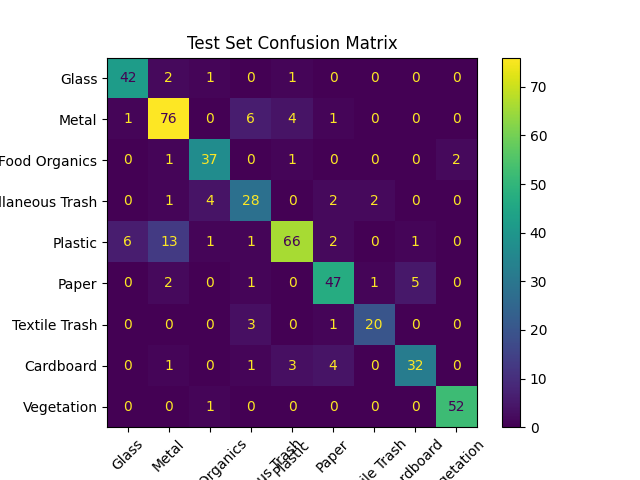
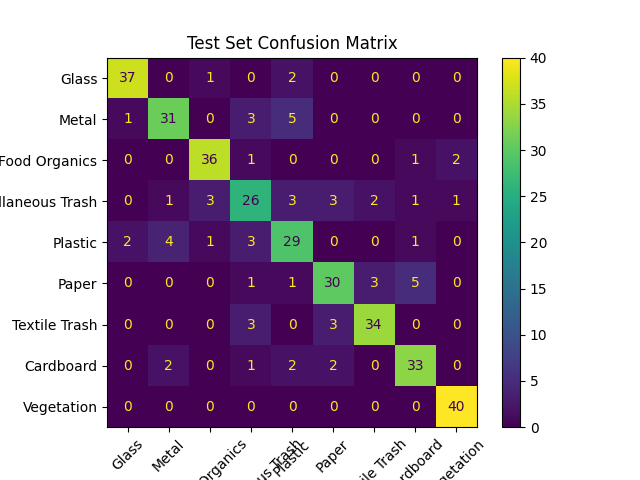
===2025/05/18=== mac

diff --git a/noRetrainOnTorch.py b/noRetrainOnTorch.py
@@ -2,13 +2,13 @@
 # 
 # | 模型               | Test Accuracy                      |
 # | 全凍結-50epoch------------------------------------------|
-# | MobileNetV2       |                  |
-# | EfficientNetB0    |                  |
-# | EfficientNetB1    |                  |
-# | EfficientNetB7    |                  |
-# | EfficientNetV2S   |                  |
-# | EfficientNetV2M   |                  |
-# | ConvNeXtTiny      |                  |
+# | MobileNetV2       | 0.8250                             |
+# | EfficientNetB0    | 0.8417                             |
+# | EfficientNetB1    | 0.8222                             |
+# | EfficientNetB7    | 0.8083                             |
+# | EfficientNetV2S   | 0.7944                             |
+# | EfficientNetV2M   | 0.7528                             |
+# | ConvNeXtTiny      | 0.8194                             |
 # | 全訓練-50epoch------------------------------------------|
 # | MobileNetV2       | 0.8500                             |
 # | EfficientNetB0    | 0.9000                             |
@@ -18,13 +18,13 @@
 # | EfficientNetV2M   | 0.8389                             |
 # | ConvNeXtTiny      | 0.7806                             |
 # | 全訓練-200epoch-----------------------------------------|
-# | MobileNetV2       | 0.8298319327731093                 |
-# | EfficientNetB0    |                  |
-# | EfficientNetB1    | 0.8739495798319328                 |
-# | EfficientNetB7    | 0.8298319327731093                 |
-# | EfficientNetV2S   |                  |
-# | EfficientNetV2M   |                  |
-# | ConvNeXtTiny      |                  |
+# | MobileNetV2       |                              |
+# | EfficientNetB0    |                              |
+# | EfficientNetB1    |                              |
+# | EfficientNetB7    |                              |
+# | EfficientNetV2S   |                              |
+# | EfficientNetV2M   |                              |
+# | ConvNeXtTiny      |                              |
 # | 半凍結半訓練-200epoch------------------------------------|
 # | MobileNetV2       | 0.8833                             |
 # | EfficientNetB0    | 0.9194                             |
@@ -210,18 +210,18 @@ for m in model_list :
 
     model_dir = model_dir + "/allFreeze_50epochs"
 
-    
+    """
     #全凍結
     for param in model.features.parameters():
         param.requires_grad = False
-    
+    """
 
     criterion = nn.CrossEntropyLoss()
     optimizer = optim.Adam(model.parameters(), lr=0.001)
     #scheduler = torch.optim.lr_scheduler.StepLR(optimizer, step_size=15, gamma=0.5)
 
     best_val_acc = 0.0
-    initial_epochs = 50
+    initial_epochs = 200
     freeze_epochs = -1
 
     train_acc_list = []
